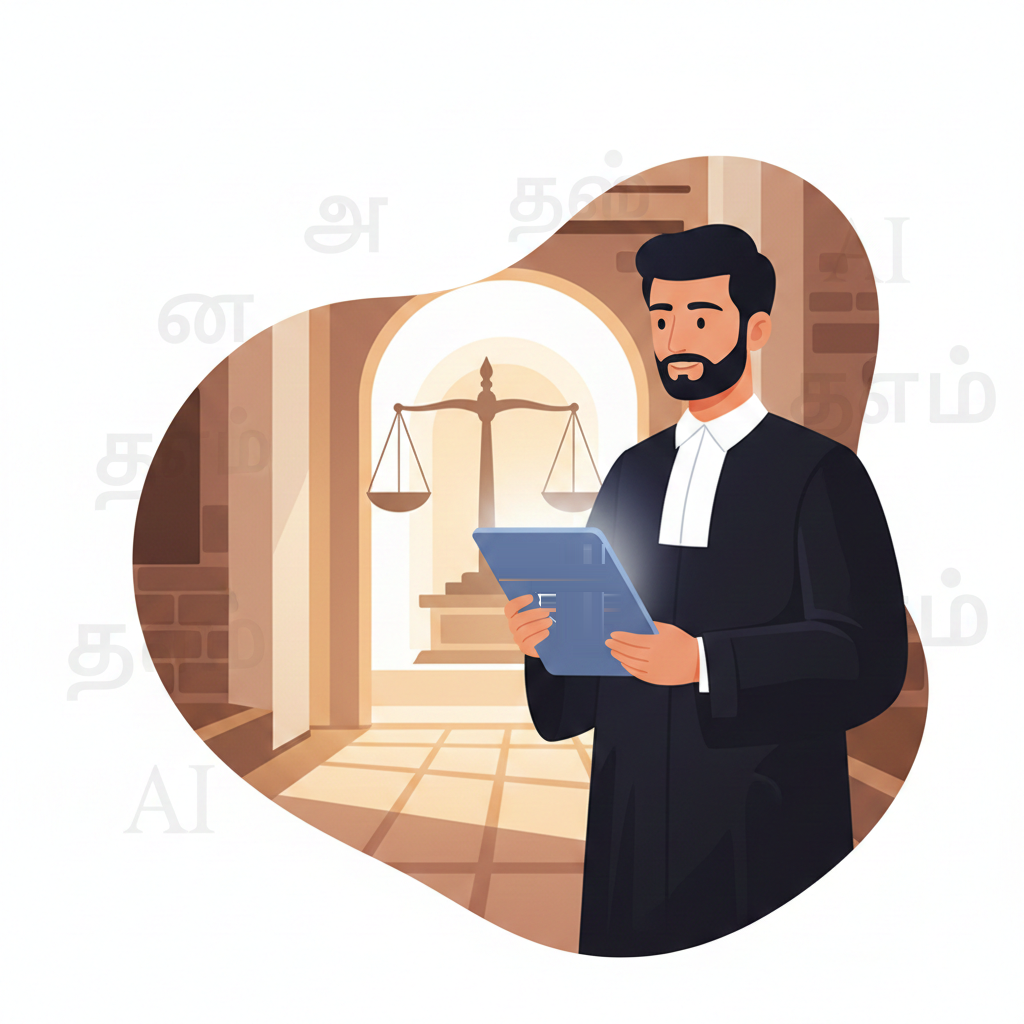
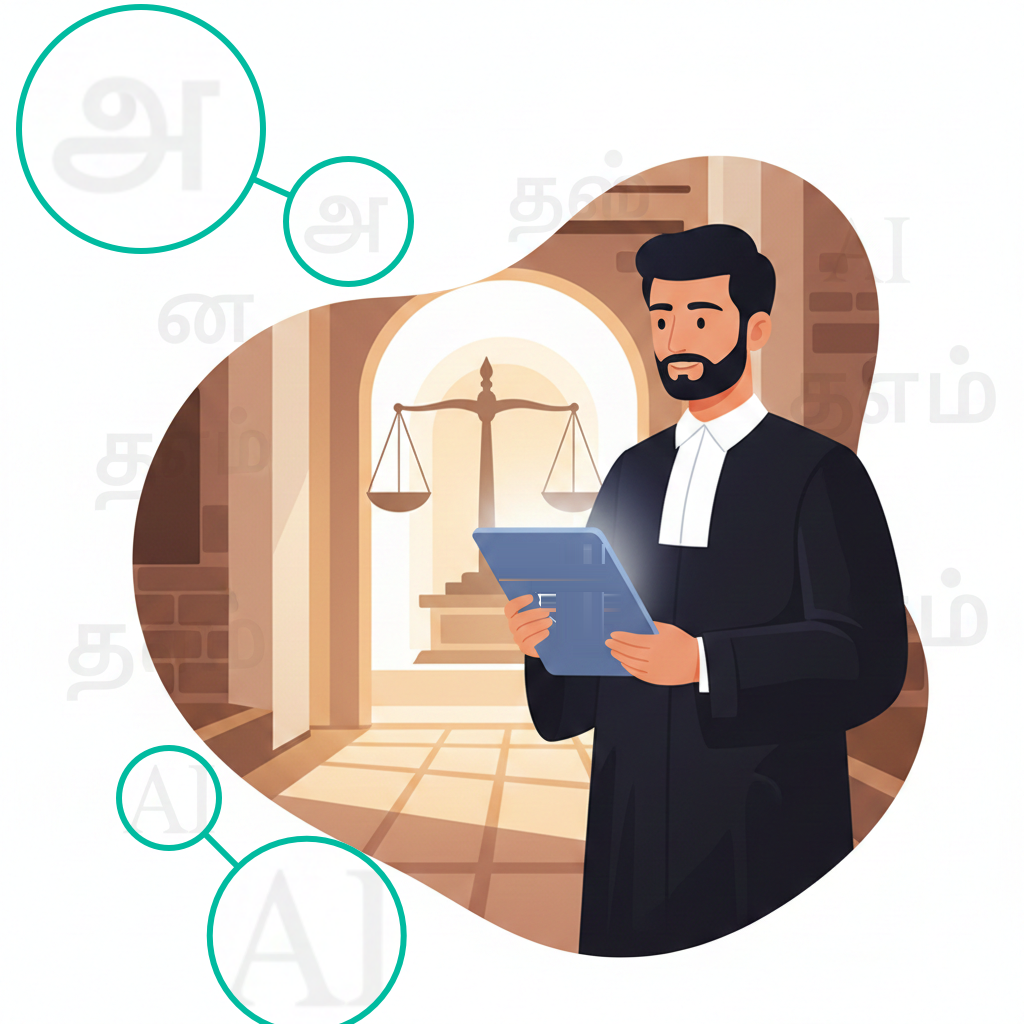
added hero images

diff --git a/book/book-introduction.md b/book/book-introduction.md
@@ -1,6 +1,6 @@
-# தமிழ் AI கட்டளை வடிவமைப்பு கையேடு
+# அறிமுகம் - தமிழ் செய்யறிவு கட்டளை வடிவமைப்பு கையேடு
 
-## Tamil Prompt Engineering Handbook
+## Inroduction - Tamil Prompt Engineering Handbook
 
 **செயற்கை நுண்ணறிவு மாதிரிகளிடம் (AI / LLMs) தமிழில் துல்லியமான, தரமான பதில்களைப் பெறுவதற்கான முழுமையான வழிகாட்டி.**
 
